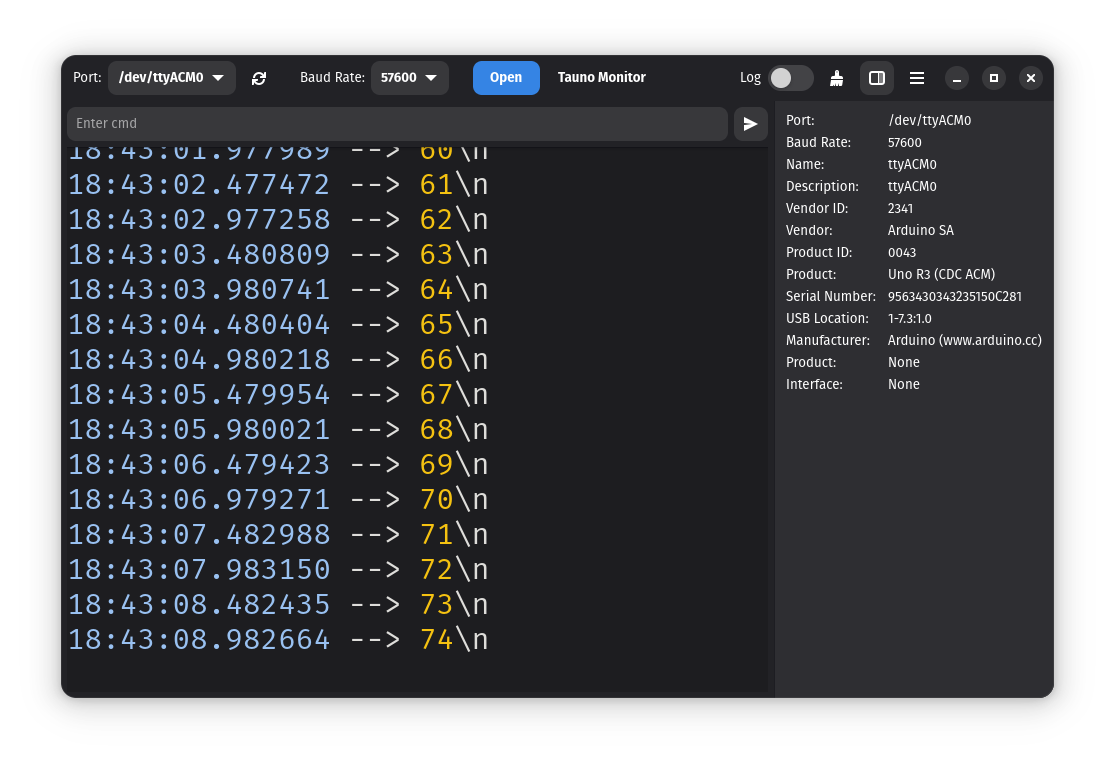
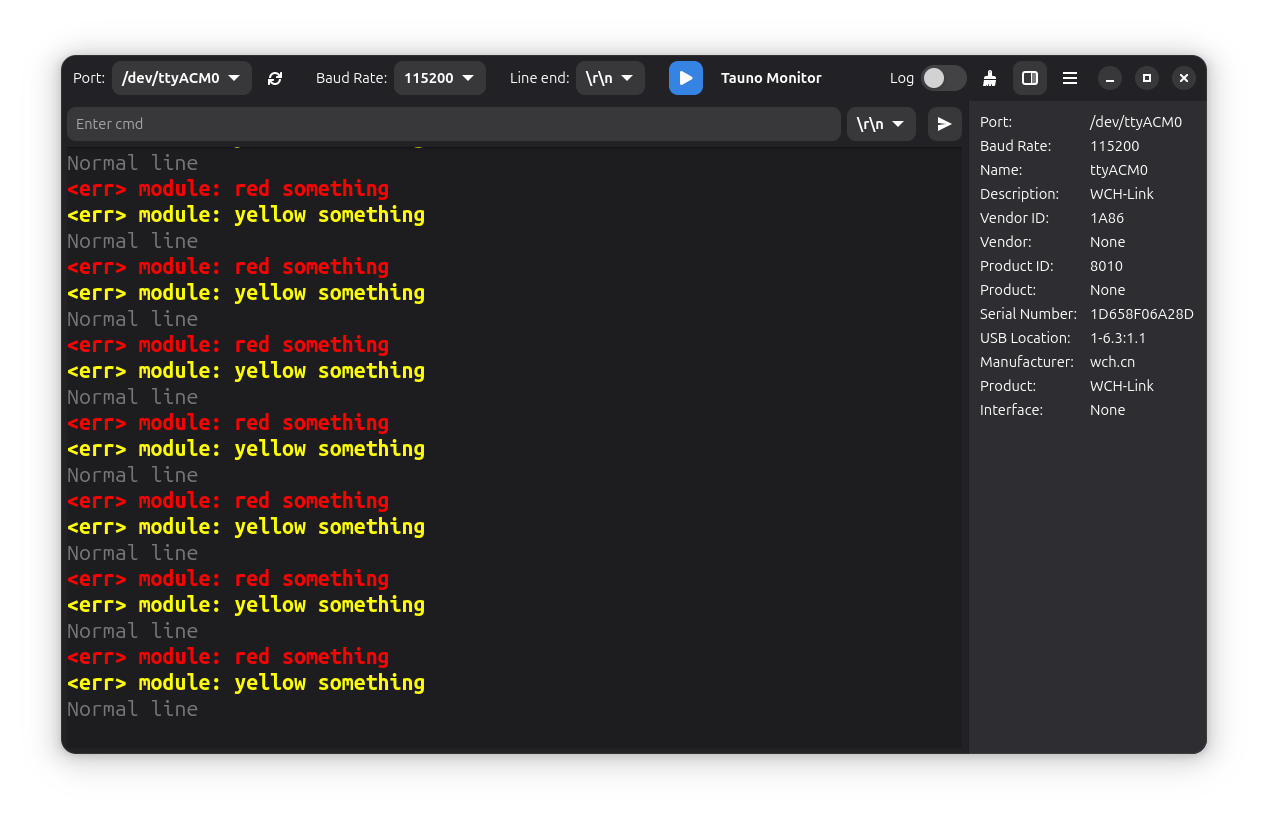
bug fix

Changed region(s): [[0.0305, 0.0601, 0.9758, 0.932], [0.3354, 0.7817, 0.3659, 0.8118]]

diff --git a/src/preferences.py b/src/preferences.py
@@ -79,7 +79,8 @@ class TaunoPreferencesWindow(Adw.PreferencesWindow):
 
         self.theme_modes = ['System', 'Dark', 'Light']
         self.theme_dropdown.set_model(Gtk.StringList.new(self.theme_modes))
-        self.theme_dropdown.set_selected(0)
+        self.saved_theme_index = self.settings.get_int("saved-theme-index")
+        self.theme_dropdown.set_selected(self.saved_theme_index)
 
         self.notifications_switch.set_active(self.settings.get_boolean("notifications"))
 
@@ -87,7 +88,8 @@ class TaunoPreferencesWindow(Adw.PreferencesWindow):
         # Serial data formats
         self.serial_data_formats = ['ASCII', 'HEX', 'BIN', 'DEC', 'OCT']
         self.rx_format_dropdown.set_model(Gtk.StringList.new(self.serial_data_formats))
-        self.rx_format_dropdown.set_selected(0)
+        self.saved_data_format_index = self.settings.get_int("saved-serial-rx-data-format-index")
+        self.rx_format_dropdown.set_selected(self.saved_data_format_index)
 
         self.timestamp_switch.set_active(self.settings.get_boolean("timestamp"))
         self.arrow_switch.set_active(self.settings.get_boolean("arrow"))
@@ -225,6 +227,7 @@ class TaunoPreferencesWindow(Adw.PreferencesWindow):
         print(f'Position: {index} - value: {string_object.get_string()}')
         # save settings
         self.settings.set_string("saved-serial-rx-data-format", new_format)
+        self.settings.set_int("saved-serial-rx-data-format-index", index)
         # update pos
         self.win.get_rx_format_saved = self.settings.get_string("saved-serial-rx-data-format")
 
